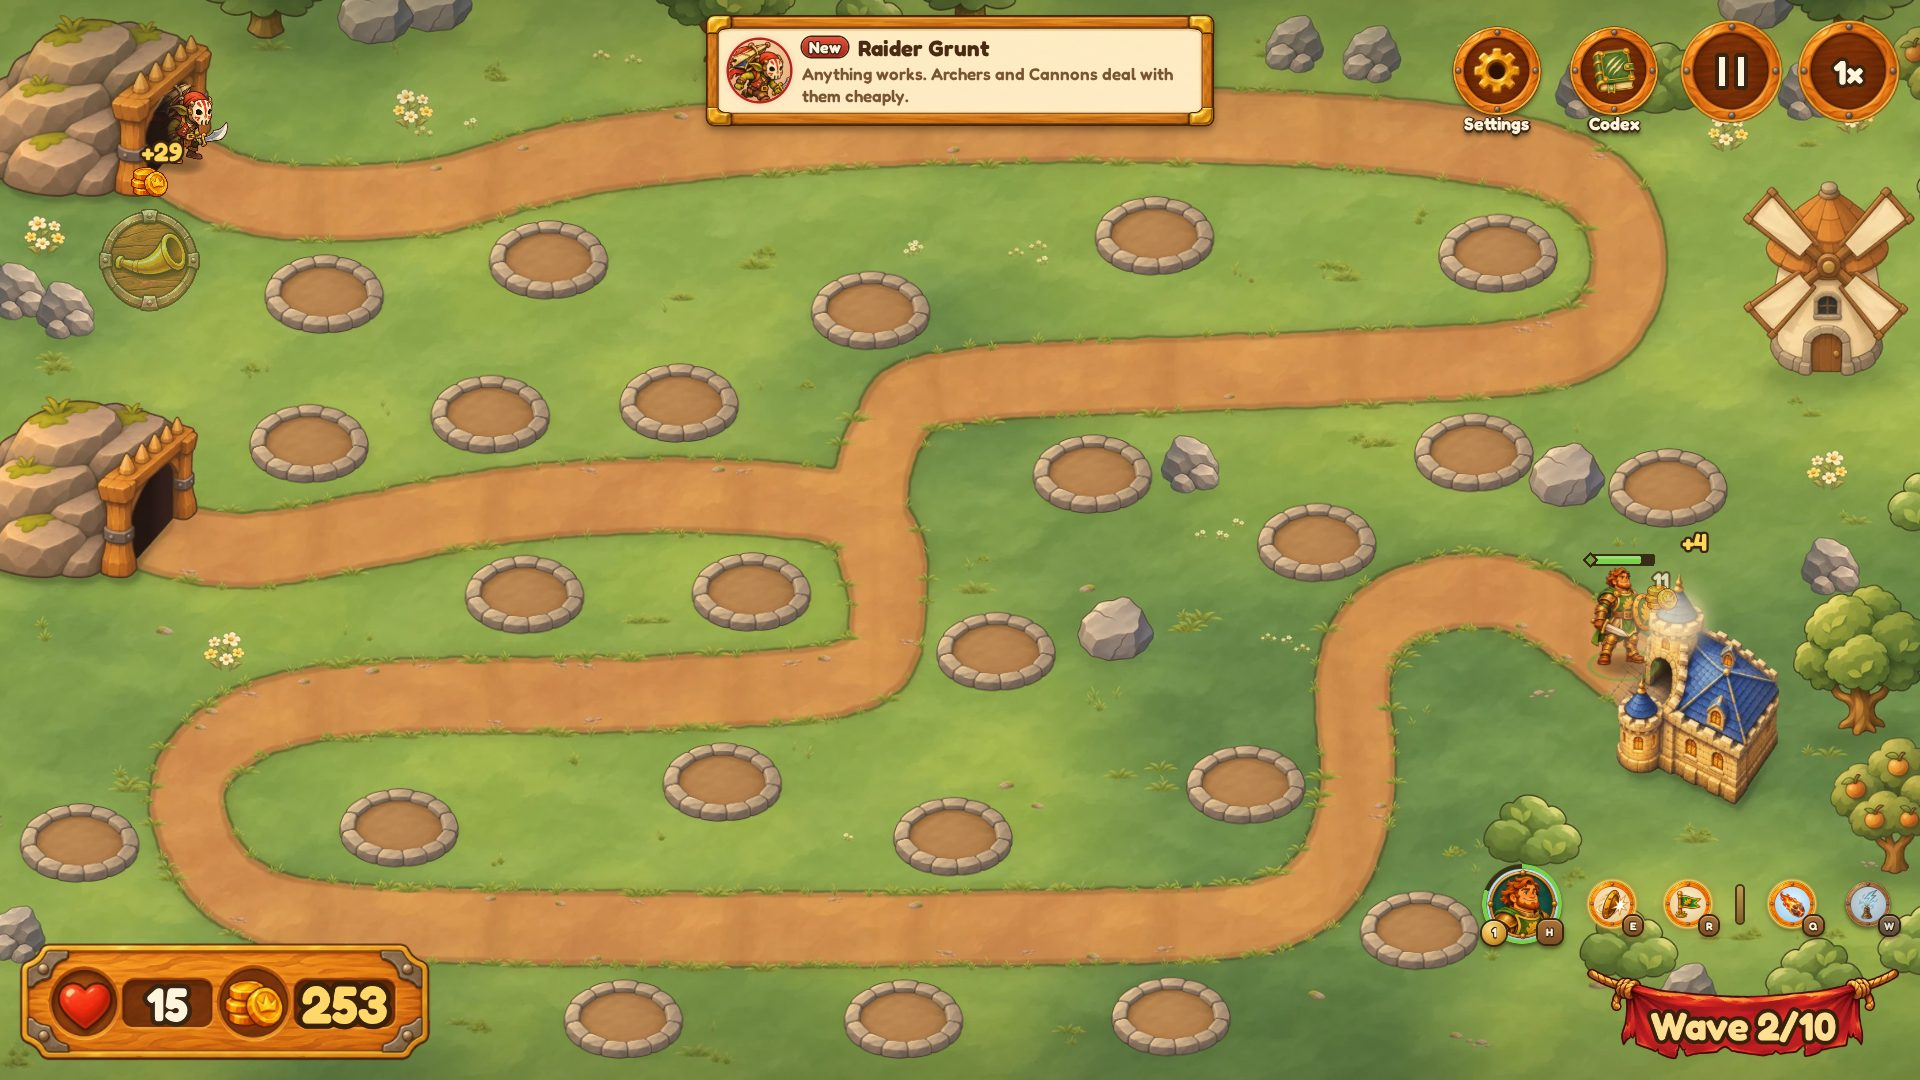
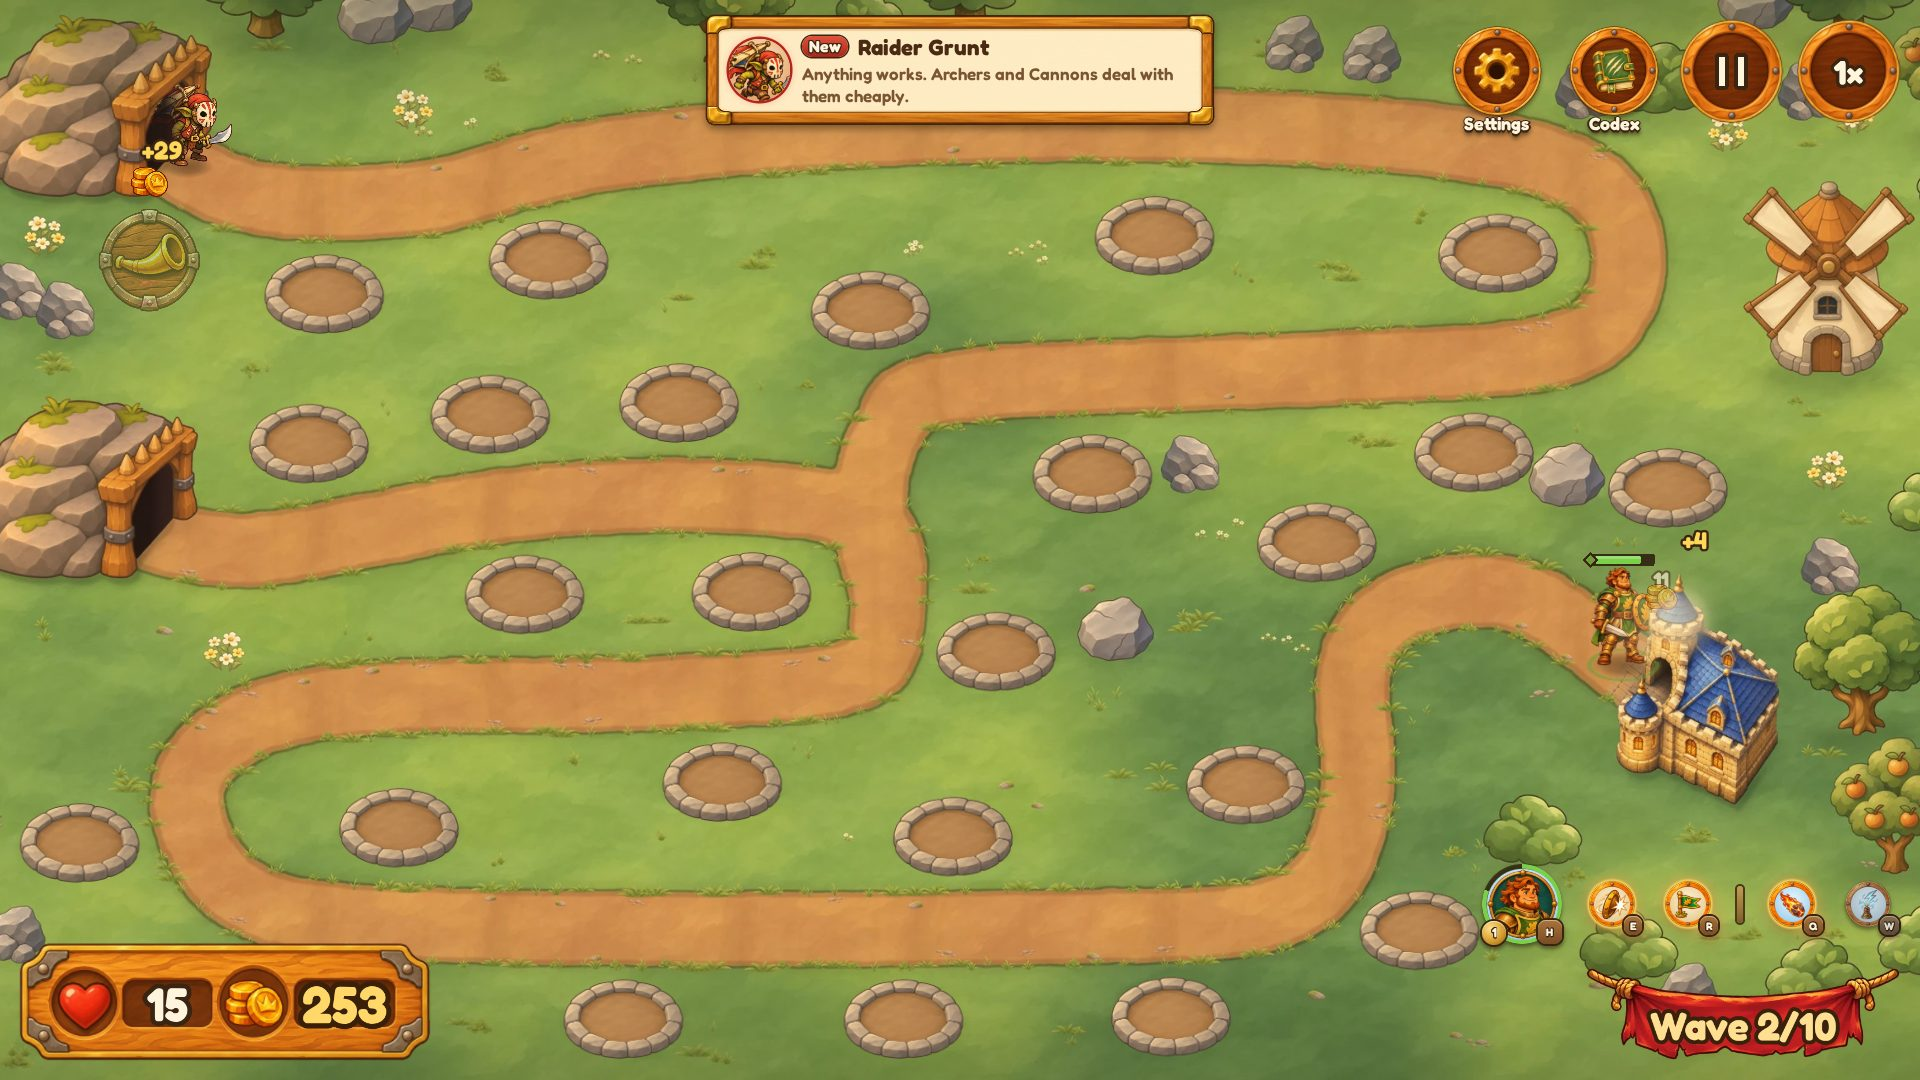
polish(2d): selling a tower shows the refund as a gold '+N' (like a bounty); refreshed bar sheets

Changed region(s): [[0.375, 0.0306, 0.625, 0.1222], [0.0625, 0.0611, 0.125, 0.1833], [0.875, 0.4889, 0.9062, 0.5194]]

diff --git a/src/render2d/game2d.ts b/src/render2d/game2d.ts
@@ -604,6 +604,8 @@ export class Game2D {
       this.hudGoldDirty = true;
       this.fx.puffs(m.pxX(e.x), m.pxY(e.z), 10, 30, 0xe9d8b4);
       this.fx.spawn('coin', m.pxX(e.x), m.pxY(e.z) - 40, 34, 0, -60, 0.9);
+      // The refund rises as a gold "+N", like a kill's bounty.
+      if (e.refund > 0) this.goldPops.spawn(e.refund, m.pxX(e.x) + 12, m.pxY(e.z) - 70);
     });
     ev.on('waveStarted', () => {
       this.hudGoldDirty = true;
